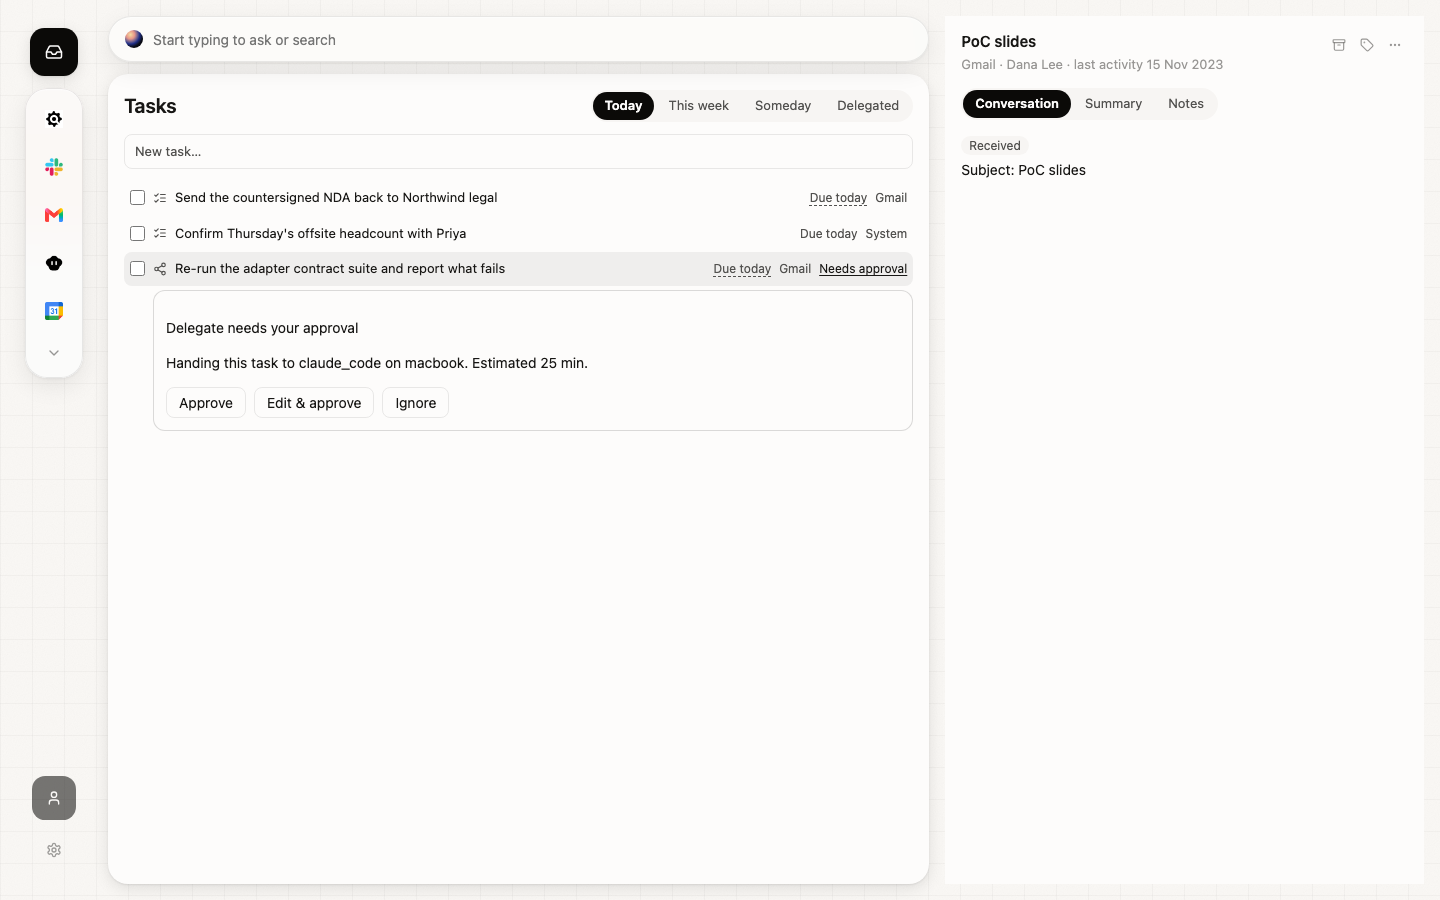
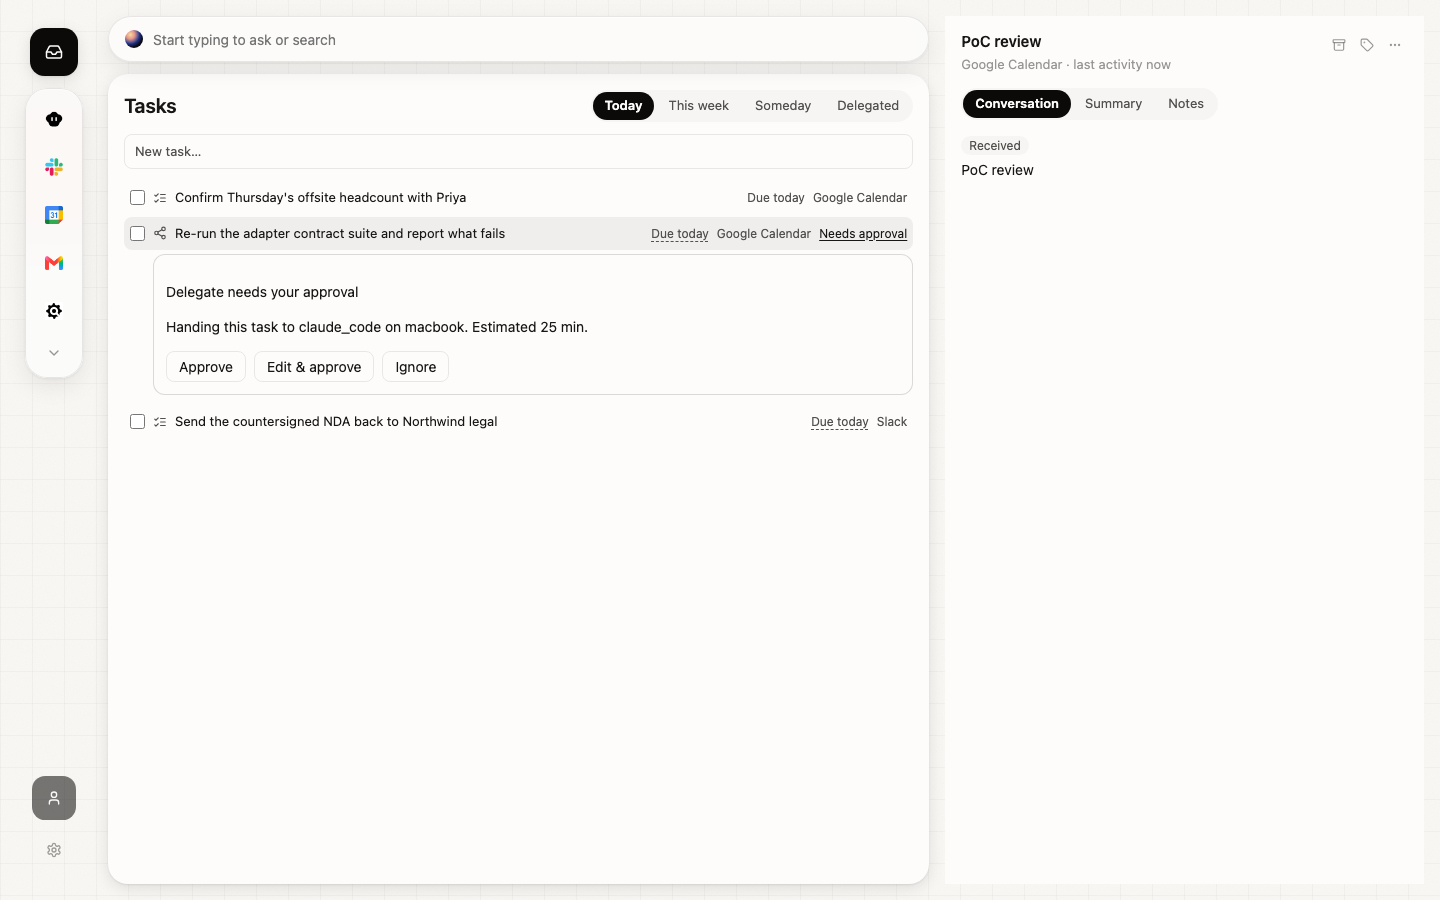
US-B29: order the task list by due_at, and correct the fixture's due_basis
Three findings from the verification pass over the US-B29 slices, all three in the shipped
art rather than in the tests:

1. `zero.query.tasks` had no `orderBy`, so the rows arrived in an unspecified order — and
   because `tasks.id` is a random uuid, a *different* unspecified order per run. Two runs of
   the same shot fixture drew Today's rows in two different sequences. Ordered by `due_at`,
   which is the axis the three date tabs are already defined by, rather than inventing a
   second key: A5 §3.5's example binding carries no order at all, so ordering by the tabs'
   own key is the one choice that is not a new product decision. Undated tasks have no such
   key and keep the server's order — the Someday bucket is defined by the absence of a
   value, and picking a key for it is not this story's call.

2. The fixture gave the delegated task `due_basis: "none"` *and* a `due_at`. A4 §4.2 has
   due_basis describe where the date came from, so "none" is the field's answer for a task
   with no date; pairing it with a date is a state the model cannot legitimately emit. It is
   also the one state `dueBasisFor` has no answer for, so the row fell through to the
   `created_by` guess and drew its dashed marker for the right reason by accident. Now
   `inferred`, which is what it is, and the marker is a fact about the data.

3. The fixture asserted only that each view bucket was non-empty. A tab short a row would
[…]

diff --git a/tools/e2e/shots-w4b-tasks.ts b/tools/e2e/shots-w4b-tasks.ts
@@ -112,11 +112,17 @@ const PLAN: PlannedTask[][] = [
     // §3.5 defines Delegated as a separate axis (`owner_kind='agent'`), never as "and nowhere else",
     // and a delegation due today that vanished from Today would be work the person never sees on the
     // day it is due.
+    //
+    // `inferred`, not `none`: A4 §4.2 has due_basis describe where the date came from, so "none" is
+    // the field's answer for a task with no date at all. Pairing "none" with a due_at is a state the
+    // model cannot legitimately emit — and it happens to be the one state `dueBasisFor` has no answer
+    // for, so it would have fallen through to the `created_by` guess and drawn a dashed marker for
+    // both the right and the wrong reason. The date was read out of the message; say so.
     {
       title: "Re-run the adapter contract suite and report what fails",
       detail: "The two failures from last night need a clean run on the current main.",
       owner: "agent",
-      due_basis: "none",
+      due_basis: "inferred",
       due_at: dueIn(0, 17),
       confidence: 0.86,
     },
@@ -323,9 +329,14 @@ async function main(): Promise<void> {
     closeBridge = seeded.closeBridge;
     await seedTasks(pool);
 
-    // What the screen will draw, asked of the database before the browser is even open. Each view
-    // tab's case is printed rather than assumed: if the fixture ever stops producing one of them the
-    // frame would still look like a screen — it would just be a screen missing a tab's worth of rows.
+    // What the screen will draw, asked of the database before the browser is even open.
+    //
+    // The bucket CASE is the screen's `filterTasksByView` restated in SQL, which is a second place for
+    // the same rule to live — accepted here because the alternative is asserting against the rendered
+    // page, and a page assertion cannot tell "the tab is short one row" from "the list rendered at
+    // all". The counts below are exact for this fixture, so a row that stops being extracted, lands in
+    // the wrong bucket, or loses its basis fails the run instead of quietly thinning a frame. A short
+    // list would still screenshot like a screen; that is the failure this exists to catch.
     const counts = await query<{ bucket: string; n: string }>(
       pool,
       `SELECT CASE
@@ -351,11 +362,21 @@ async function main(): Promise<void> {
     console.log(
       `inferred due dates=${String(basis?.n)} delegate approvals=${String(delegations?.n)}`,
     );
-    const buckets = new Map(counts.map((c) => [c.bucket, Number(c.n)]));
-    const missing = ["today", "week", "someday", "delegated"].filter((b) => !buckets.get(b));
-    if (missing.length > 0 || basis?.n === "0" || delegations?.n !== "1") {
+
+    // today 2 = the NDA (18:00) and the offsite headcount (12:00); week 1 = the Brightstone redlines
+    // (+3d); someday 1 = the undated headcount ask; delegated 1 = the contract suite, which the CASE
+    // files under its own axis even though its due date also puts it under today.
+    const expected: Record<string, number> = { today: 2, week: 1, someday: 1, delegated: 1 };
+    const got = new Map(counts.map((c) => [c.bucket, Number(c.n)]));
+    const wrong = Object.entries(expected).filter(([b, n]) => got.get(b) !== n);
+    // Two inferred due dates: the NDA's date and the delegation's. The other three are 'stated' or
+    // have no date — which is what makes the dashed marker in the frames a fact about the data rather
+    // than a decoration that would be drawn either way.
+    if (wrong.length > 0 || basis?.n !== "2" || delegations?.n !== "1") {
       throw new Error(
-        `the fixture did not produce what the Tasks screen draws (missing ${missing.join(",")})`,
+        `the fixture did not produce what the Tasks screen draws: expected ${JSON.stringify(expected)},` +
+          ` got ${JSON.stringify(Object.fromEntries(got))} (wrong: ${wrong.map(([b, n]) => `${b}≠${String(n)}`).join(",")})` +
+          `, inferred due dates ${String(basis?.n)} (want 2), delegate approvals ${String(delegations?.n)} (want 1)`,
       );
     }
 

diff --git a/apps/desktop/src/screens/Tasks.tsx b/apps/desktop/src/screens/Tasks.tsx
@@ -149,7 +149,17 @@ export function Tasks({ now: nowProp, onOpenSource, onOpenDelegation, onToggleDo
   const [expandedTaskId, setExpandedTaskId] = useState<string | null>(null);
   const now = useMemo(() => nowProp ?? new Date(), [nowProp]);
 
-  const [tasks, tasksR] = useQuery(zero.query.tasks);
+  // Ordered by `due_at`, the same key the three date tabs are defined by. A5 §3.5's example binding
+  // is a bare `zero.query('tasks')` with no order, and an unordered query over a table whose key is a
+  // random uuid is not merely "unsorted" — it is a different order per run, which is what the shot
+  // script showed: two runs of the same fixture drew Today's rows in two different sequences.
+  //
+  // `due_at` rather than `created_at` because it is the only key this screen already reasons about,
+  // and ordering by the tabs' own axis is the least inventive choice available. Undated tasks (the
+  // Someday tab) have no such key and keep whatever order the server returns — a bucket defined by
+  // the absence of a value has nothing to sort on, and inventing a second key for it would be a
+  // product decision this story was not given.
+  const [tasks, tasksR] = useQuery(zero.query.tasks.orderBy("due_at", "asc"));
   const [approvals, approvalsR] = useQuery(
     zero.query.pending_approvals.where("state", "=", "pending"),
   );
